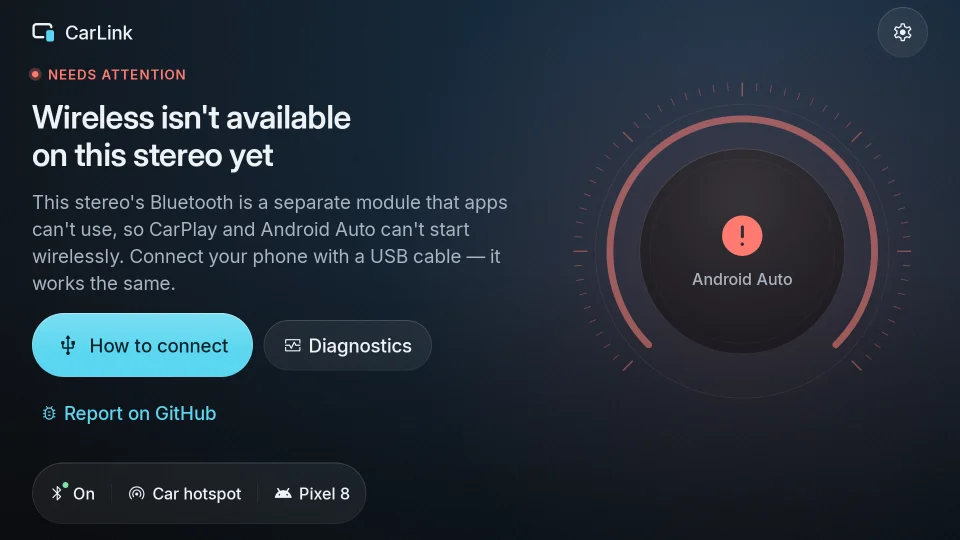
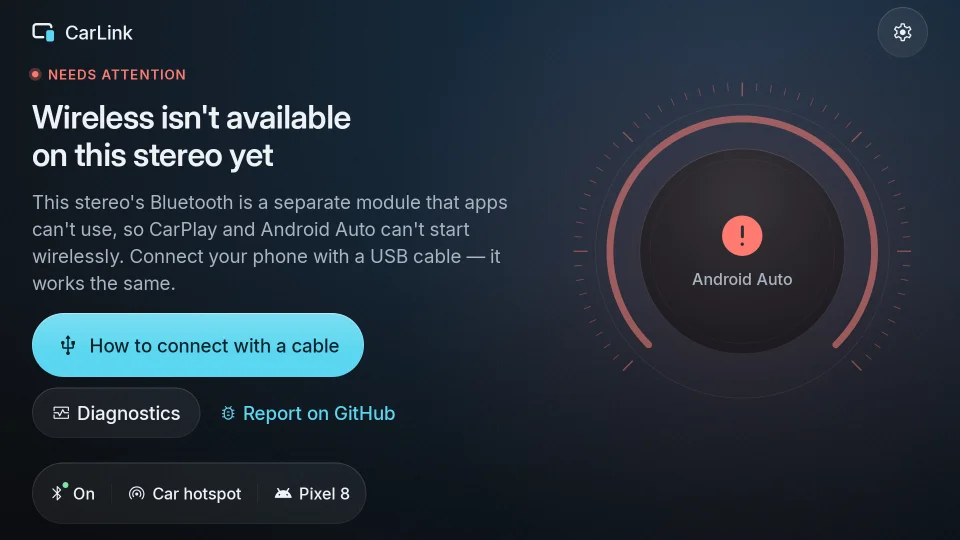
Home: say "plug in your phone" up front on an external-module stereo
Issue #6 (FYT/ZJ unit, /dev/zj_bt_serial, EXTERNAL_UNKNOWN): Home skipped the
wireless auto-start, then stayed on "Connect <iPhone>? CarPlay over Wi-Fi
Direct" with a Connect button that could only fail. Idle Home now shows a
CABLE_ONLY state when wireless is blocked for the default phone's engine
(both engines when no phone is known): why (the phone must talk to this
screen's own Bluetooth, a module apps cannot use), the one-tap "How to
connect with a cable" help, and USB cable in the network status. It comes
before "Bluetooth is off" and "Pair a phone", which do not help there.

design/EXTERNAL_BLUETOOTH.md records the research on CarPlay through the
module: no public route carries iAP2 (ZBT 0x105 is Android Auto's RFCOMM).

Changed region(s): [[0.2188, 0.563, 0.4375, 0.7111], [0.0312, 0.7407, 0.4062, 0.8]]

diff --git a/app/src/main/java/com/carlink/app/ui/home/HomeScreen.kt b/app/src/main/java/com/carlink/app/ui/home/HomeScreen.kt
@@ -101,6 +101,8 @@ import com.carlink.core.core.PhoneKind
 import com.carlink.core.core.Transport
 import com.carlink.core.detect.BluetoothAvailability
 import com.carlink.core.detect.PairedPhone
+import com.carlink.core.detect.StereoBluetooth
+import com.carlink.core.connection.DeviceEnvironment
 import com.carlink.core.settings.ConnectionMethod
 import com.carlink.core.settings.WifiDetails
 import com.carlink.core.settings.WirelessPath
@@ -108,18 +110,23 @@ import com.carlink.core.settings.isValid
 
 /** The modes of Home's stage (design/RESEARCH_PREMIUM_UX.md §7.3). */
 internal enum class HomeMode {
-    PERMISSION, BLUETOOTH_OFF, READY_EMPTY, READY_PHONE, CONNECTING,
+    PERMISSION, BLUETOOTH_OFF, READY_EMPTY, READY_PHONE,
+    /** Idle on a stereo where wireless cannot start for this phone (external Bluetooth module): the cable is the way. */
+    CABLE_ONLY,
+    CONNECTING,
     /** A wireless attempt the phone has not answered for a while: calm, caution, nothing animates. */
     NOT_ANSWERING,
     CONNECTED, FAILED,
 }
 
-internal fun homeMode(home: HomeState, permissionsNeeded: Boolean): HomeMode = when {
+internal fun homeMode(home: HomeState, permissionsNeeded: Boolean, cableOnly: Boolean = false): HomeMode = when {
     home.link.stage == LinkStage.CONNECTED -> HomeMode.CONNECTED
     phoneSilent(home.link) -> HomeMode.NOT_ANSWERING
     home.link.stage == LinkStage.WAITING || home.link.stage == LinkStage.CONNECTING -> HomeMode.CONNECTING
     home.link.stage == LinkStage.FAILED -> HomeMode.FAILED
     permissionsNeeded -> HomeMode.PERMISSION
+    // Before "Bluetooth is off" and "Pair a phone": neither helps when apps cannot use this stereo's Bluetooth.
+    cableOnly -> HomeMode.CABLE_ONLY
     home.bluetooth == BluetoothAvailability.OFF -> HomeMode.BLUETOOTH_OFF
     home.defaultPhone != null -> HomeMode.READY_PHONE
     else -> HomeMode.READY_EMPTY
@@ -138,7 +145,16 @@ internal data class HomeUi(
     val permissionsNeeded: Boolean,
     /** How the default phone usually connects (from its connection record), or null before it has one. */
     val usual: PhoneUsual? = null,
-)
+    /** What this stereo's Bluetooth is (null until the probe finished). */
+    val stereo: StereoBluetooth? = null,
+) {
+    /**
+     * Wireless cannot start for the default phone's engine here (for either engine when no phone is
+     * known), so Home offers the cable instead of a Connect that can only fail.
+     */
+    val cableOnly: Boolean get() = stereo != null && (home.defaultPhone?.kind?.engine?.let(::listOf) ?: Engine.entries)
+        .all { DeviceEnvironment.wirelessBlocked(stereo, connection.wirelessOnExternalBluetooth, it) }
+}
 
 internal interface HomeActions {
     fun requestPermissions() {}
@@ -171,6 +187,7 @@ fun HomeScreen(vm: CarLinkViewModel, navigate: (Route) -> Unit) {
     val network by vm.network.collectAsStateWithLifecycle()
     val permissionsNeeded by vm.permissionsNeeded.collectAsStateWithLifecycle()
     val usual by vm.usual.collectAsStateWithLifecycle()
+    val stereo by vm.stereoBluetooth.collectAsStateWithLifecycle()
     val fixProblem = rememberProblemFix(vm)
     val reportProblem = com.carlink.app.ui.diagnostics.rememberReportProblem(vm)
     val actions = remember(vm) {
@@ -194,7 +211,7 @@ fun HomeScreen(vm: CarLinkViewModel, navigate: (Route) -> Unit) {
             override fun turnOnDirectVideo() = vm.turnOnDirectVideo()
         }
     }
-    HomeContent(HomeUi(home, connection, network, permissionsNeeded, usual), actions)
+    HomeContent(HomeUi(home, connection, network, permissionsNeeded, usual, stereo?.classification), actions)
     // A second USB phone: the floating overlay asks over any screen; without the overlay
     // permission Home asks itself.
     val pendingSwitch by vm.pendingSwitch.collectAsStateWithLifecycle()
@@ -276,7 +293,7 @@ private fun CableHelpDialog(onDismiss: () -> Unit) {
 @Composable
 private fun modeColor(mode: HomeMode): Color = when (mode) {
     HomeMode.CONNECTED -> CarLinkTokens.colors.success
-    HomeMode.CONNECTING, HomeMode.READY_PHONE -> MaterialTheme.colorScheme.primary
+    HomeMode.CONNECTING, HomeMode.READY_PHONE, HomeMode.CABLE_ONLY -> MaterialTheme.colorScheme.primary
     HomeMode.FAILED -> MaterialTheme.colorScheme.error
     HomeMode.PERMISSION, HomeMode.BLUETOOTH_OFF, HomeMode.NOT_ANSWERING -> CarLinkTokens.colors.warning
     HomeMode.READY_EMPTY -> MaterialTheme.colorScheme.onSurfaceVariant
@@ -301,7 +318,7 @@ internal fun HomeContent(ui: HomeUi, actions: HomeActions) {
 
 @Composable
 private fun HomeStageScreen(ui: HomeUi, actions: HomeActions, onPhones: () -> Unit, onNetwork: () -> Unit) {
-    val mode = homeMode(ui.home, ui.permissionsNeeded)
+    val mode = homeMode(ui.home, ui.permissionsNeeded, ui.cableOnly)
     val layout = CarLinkTokens.layout
     val dimens = CarLinkTokens.dimens
     val car = CarLinkTokens.profile == UiProfile.CAR
@@ -422,6 +439,8 @@ private fun HomeDial(mode: HomeMode, ui: HomeUi, modifier: Modifier) {
                         HomeMode.READY_EMPTY, HomeMode.PERMISSION -> CarLinkMark(Modifier.size(glyph))
                         HomeMode.BLUETOOTH_OFF -> Icon(painterResource(R.drawable.carlink_ic_bluetooth_disabled), null,
                             Modifier.size(glyph), tint = colors.warning)
+                        HomeMode.CABLE_ONLY -> Icon(painterResource(R.drawable.carlink_ic_usb), null, Modifier.size(glyph),
+                            tint = scheme.onSurface)
                         HomeMode.READY_PHONE, HomeMode.CONNECTING, HomeMode.NOT_ANSWERING -> Icon(painterResource(phoneIcon(kind)),
                             null, Modifier.size(glyph), tint = when (state) {
                                 HomeMode.CONNECTING -> scheme.primary
@@ -516,6 +535,7 @@ private fun ColumnScope.HeroCopy(mode: HomeMode, ui: HomeUi, actions: HomeAction
         HomeMode.PERMISSION -> stringResource(R.string.carlink_home_permission_title) to stringResource(R.string.carlink_home_permission_body)
         HomeMode.BLUETOOTH_OFF -> stringResource(R.string.carlink_home_bt_off_title) to stringResource(R.string.carlink_home_bt_off_body)
         HomeMode.READY_EMPTY -> stringResource(R.string.carlink_home_ready_title) to stringResource(R.string.carlink_home_ready_body)
+        HomeMode.CABLE_ONLY -> stringResource(R.string.carlink_home_cable_only_title) to stringResource(R.string.carlink_home_cable_only_body)
         HomeMode.READY_PHONE -> stringResource(R.string.carlink_home_ready_phone_title, phoneName) to
             stringResource(R.string.carlink_home_ready_phone_body, phone?.kind?.engine?.let { engineName(it) } ?: "",
                 pathName(ui.network?.path, Transport.WIRELESS))
@@ -607,6 +627,11 @@ private fun ColumnScope.HeroCopy(mode: HomeMode, ui: HomeUi, actions: HomeAction
                 icon = R.drawable.carlink_ic_bluetooth)
             HomeMode.READY_EMPTY -> GlassButton(stringResource(R.string.carlink_home_pair_action), actions::pairPhone,
                 icon = R.drawable.carlink_ic_bluetooth)
+            HomeMode.CABLE_ONLY -> {
+                var cableHelp by rememberSaveable { mutableStateOf(false) }
+                IonButton(stringResource(R.string.carlink_home_how_to_connect), { cableHelp = true }, icon = R.drawable.carlink_ic_usb)
+                if (cableHelp) CableHelpDialog { cableHelp = false }
+            }
             HomeMode.READY_PHONE -> phone?.let {
                 IonButton(stringResource(R.string.carlink_home_connect), { actions.connect(it) }, icon = R.drawable.carlink_ic_link)
             }

diff --git a/app/src/test/java/com/carlink/app/ui/home/CableOnlyTest.kt b/app/src/test/java/com/carlink/app/ui/home/CableOnlyTest.kt
@@ -1,0 +1,43 @@
+package com.carlink.app.ui.home
+
+import com.carlink.app.gallery.HomeFakes
+import com.carlink.core.core.LinkStage
+import com.carlink.core.core.LinkState
+import com.carlink.core.core.Engine
+import com.carlink.core.core.Transport
+import com.carlink.core.detect.BluetoothAvailability
+import com.carlink.core.detect.StereoBluetooth
+import org.junit.Assert.assertEquals
+import org.junit.Assert.assertFalse
+import org.junit.Assert.assertTrue
+import org.junit.Test
+
+/** Issue #6: idle Home on a stereo whose Bluetooth is an external module offers the cable, not a Connect that can only fail. */
+class CableOnlyTest {
+    private fun mode(ui: HomeUi) = homeMode(ui.home, ui.permissionsNeeded, ui.cableOnly)
+
+    @Test fun externalModuleWithIphoneIsCableOnly() {
+        val ui = HomeFakes.ui(stereo = StereoBluetooth.EXTERNAL_UNKNOWN)
+        assertEquals(HomeMode.CABLE_ONLY, mode(ui))
+        // Even with Android's Bluetooth off or no phone known: neither Bluetooth advice nor pairing helps.
+        assertEquals(HomeMode.CABLE_ONLY, mode(HomeFakes.ui(stereo = StereoBluetooth.FYT_MODULE, bluetooth = BluetoothAvailability.OFF)))
+        assertEquals(HomeMode.CABLE_ONLY, mode(HomeFakes.ui(stereo = StereoBluetooth.ZLINK_DAEMON, phones = emptyList())))
+    }
+
+    @Test fun moduleSettingUnblocksAndroidAutoOnly() {
+        val on = HomeFakes.prefs.copy(wirelessOnExternalBluetooth = true)
+        assertTrue(HomeFakes.ui(stereo = StereoBluetooth.EXTERNAL_UNKNOWN).copy(connection = on).cableOnly)
+        assertFalse(HomeFakes.ui(stereo = StereoBluetooth.EXTERNAL_UNKNOWN, phones = listOf(HomeFakes.pixel)).copy(connection = on).cableOnly)
+        // No phone known: wireless Android Auto is possible, so Home does not say "cable only".
+        assertFalse(HomeFakes.ui(stereo = StereoBluetooth.EXTERNAL_UNKNOWN, phones = emptyList()).copy(connection = on).cableOnly)
+    }
+
+    @Test fun ordinaryStereoAndSessionsAreUnchanged() {
+        assertEquals(HomeMode.READY_PHONE, mode(HomeFakes.ui(stereo = StereoBluetooth.NONE)))
+        assertEquals(HomeMode.READY_PHONE, mode(HomeFakes.ui(stereo = StereoBluetooth.LIKELY_FALSE_POSITIVE)))
+        assertEquals(HomeMode.READY_PHONE, mode(HomeFakes.ui(stereo = null)))
+        val usb = LinkState(LinkStage.CONNECTING, Engine.CARPLAY, Transport.USB, "iPhone", 2, 6)
+        assertEquals(HomeMode.CONNECTING, mode(HomeFakes.ui(link = usb, stereo = StereoBluetooth.EXTERNAL_UNKNOWN)))
+        assertEquals(HomeMode.PERMISSION, mode(HomeFakes.ui(permissionsNeeded = true, stereo = StereoBluetooth.EXTERNAL_UNKNOWN)))
+    }
+}

diff --git a/app/src/test/java/com/carlink/app/gallery/GalleryEntries.kt b/app/src/test/java/com/carlink/app/gallery/GalleryEntries.kt
@@ -182,6 +182,10 @@ private fun homeEntries(): List<GalleryEntry> = with(HomeFakes) { listOf(
     home("failed-external-bluetooth") {
         HomeContent(ui(link = failed(LinkProblem.EXTERNAL_BLUETOOTH, engine = Engine.ANDROID_AUTO), phones = listOf(pixel)), actions)
     },
+    // Idle on such a stereo (issue #6, FYT/ZJ unit): the cable, before the driver taps a Connect that can only fail.
+    home("cable-only-iphone") {
+        HomeContent(ui(stereo = com.carlink.core.detect.StereoBluetooth.EXTERNAL_UNKNOWN, network = NetworkPreview(com.carlink.core.settings.WirelessPath.WIFI_DIRECT, null)), actions)
+    },
     // Wireless through the stereo's Bluetooth module (experimental) could not reach the module.
     home("failed-external-module") {
         HomeContent(ui(link = failed(LinkProblem.EXTERNAL_MODULE, engine = Engine.ANDROID_AUTO), phones = listOf(pixel)), actions)

diff --git a/app/src/test/java/com/carlink/app/gallery/ScreenshotGallery.kt b/app/src/test/java/com/carlink/app/gallery/ScreenshotGallery.kt
@@ -60,7 +60,7 @@ private val lowEndEntries = setOf("home/ready-no-phone", "home/failed-same-wifi-
     "home/connecting-notice-wifi", "setup/permissions", "setup/permissions-recommended", "setup/pair-waiting",
     "setup/pair-found-iphone", "setup/pair-cable-waiting",
     // A stereo whose Bluetooth is an external module (the user's FYT unit is a 1280×720 cheap head unit).
-    "home/failed-external-bluetooth", "diagnostics/stereo-bluetooth-external", "setup/pair-external-bluetooth",
+    "home/failed-external-bluetooth", "home/cable-only-iphone", "diagnostics/stereo-bluetooth-external", "setup/pair-external-bluetooth",
     // Report on GitHub from the stereo itself (Diagnostics, Home's failure state).
     "diagnostics/idle", "diagnostics/report-confirm", "diagnostics/report-qr", "home/failed-engine",
     // Steering-wheel buttons are set up on the stereo itself.

diff --git a/app/src/main/java/com/carlink/app/ui/home/HomeStatus.kt b/app/src/main/java/com/carlink/app/ui/home/HomeStatus.kt
@@ -65,7 +65,7 @@ internal fun statusItems(mode: HomeMode, ui: HomeUi, taps: StatusTaps): List<Sta
     val link = ui.home.link
     // A session in progress or running: its own transport and phone, not the idle defaults.
     val inSession = mode == HomeMode.CONNECTING || mode == HomeMode.NOT_ANSWERING || mode == HomeMode.CONNECTED
-    val path = if (inSession && link.transport == Transport.USB) null else ui.network?.path
+    val path = if ((inSession && link.transport == Transport.USB) || mode == HomeMode.CABLE_ONLY) null else ui.network?.path
     val phones = ui.home.phones
     val phone = ui.home.defaultPhone
     // USB sessions have no Bluetooth address, so the paired list may not hold the phone; its name still does.

diff --git a/app/src/test/java/com/carlink/app/gallery/HomeFakes.kt b/app/src/test/java/com/carlink/app/gallery/HomeFakes.kt
@@ -39,7 +39,8 @@ internal object HomeFakes {
         network: NetworkPreview? = hotspot,
         connectedSince: Long? = null,
         permissionsNeeded: Boolean = false,
-    ) = HomeUi(HomeState(link, phones, bluetooth, defaultPhone, connectedSince), prefs, network, permissionsNeeded)
+        stereo: com.carlink.core.detect.StereoBluetooth? = null,
+    ) = HomeUi(HomeState(link, phones, bluetooth, defaultPhone, connectedSince), prefs, network, permissionsNeeded, stereo = stereo)
 
     fun failed(problem: LinkProblem, engine: Engine = Engine.CARPLAY, transport: Transport = Transport.WIRELESS) =
         LinkState(LinkStage.FAILED, engine, transport, if (engine == Engine.CARPLAY) iphone.name else pixel.name,

diff --git a/design/EXTERNAL_BLUETOOTH.md b/design/EXTERNAL_BLUETOOTH.md
@@ -210,7 +210,16 @@ that printed them in hex was changed).
 - **CarPlay**: DiPlay's iAP2 runs over `BluetoothRfcommDuplexStream`; neither route carries iAP2.
   The setting therefore unblocks wireless Android Auto only: wireless CarPlay stays blocked before
   any engine starts ("Wireless isn't available on this stereo yet"), and Home's wireless auto-start
-  still skips an iPhone.
+  still skips an iPhone. Idle Home on such a stereo says so up front ("Plug in your phone", with
+  the cable help) instead of offering a Connect that can only fail (issue #6).
+  Research 2026-10-27: no public source shows iAP2 through a ZJ/GOC module. ZBT's 0x105 carries
+  the RFCOMM stream of the server the daemon opens for `RequestInit{enable_type=2}` (Android Auto);
+  other `enable_type` values (1, 3, 8) are undocumented. Units with `/dev/zj_bt_serial` and no
+  3152 daemon (issue #6's) may expose `/dev/socket/zj_bt_socket`, a raw RFCOMM stream, tested only
+  with Android Auto (open-headunit [#1082](https://github.com/andreknieriem/open-headunit/issues/1082),
+  draft [PR #1168](https://github.com/andreknieriem/open-headunit/pull/1168)). Whether the module
+  advertises CarPlay to an iPhone and passes iAP2 (`FF 5A` link packets) through that socket is
+  unknown; it would take a hex dump of the socket from such a stereo while an iPhone connects.
 
 ## Alternatives that work today
 
